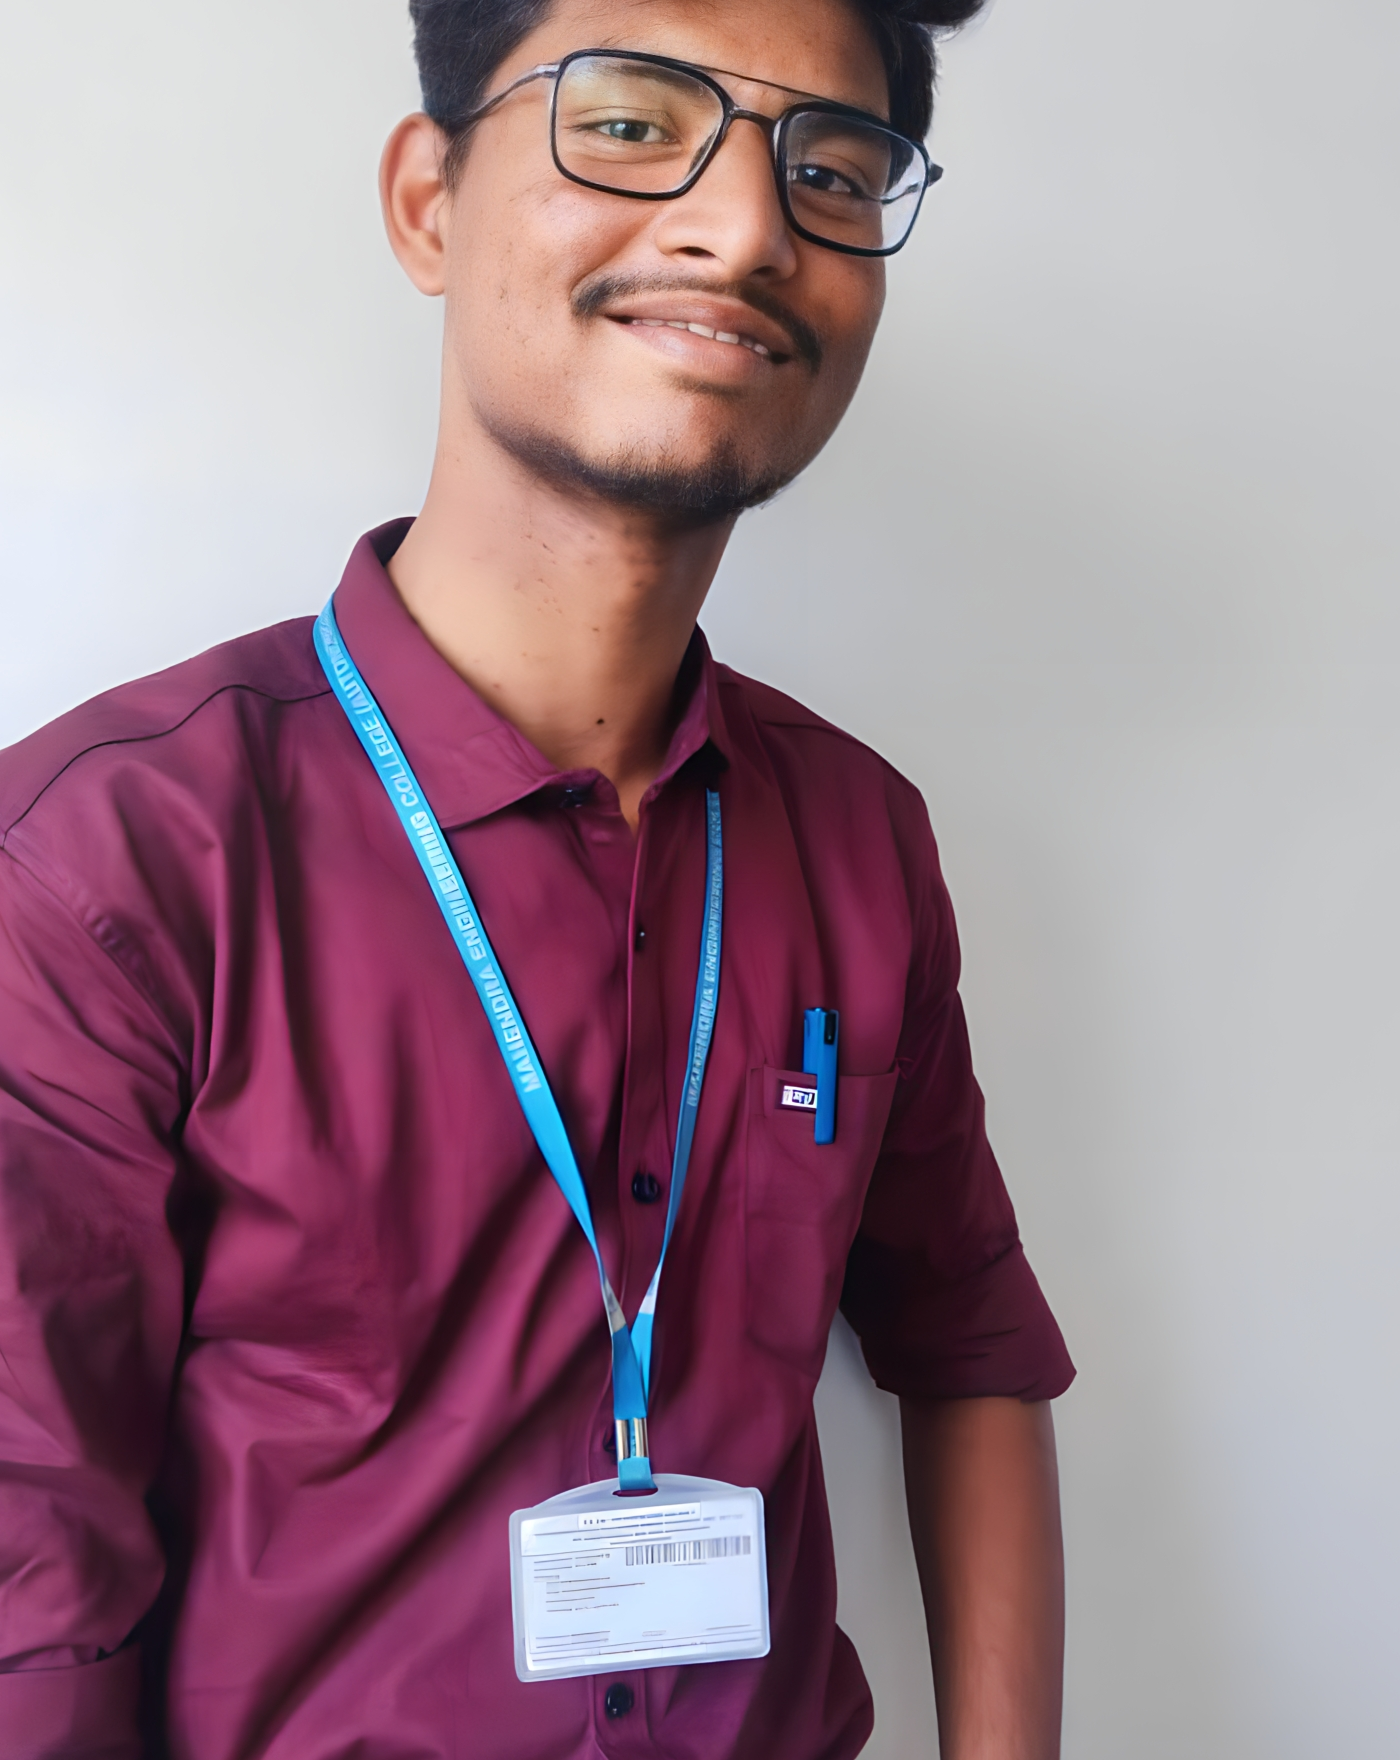
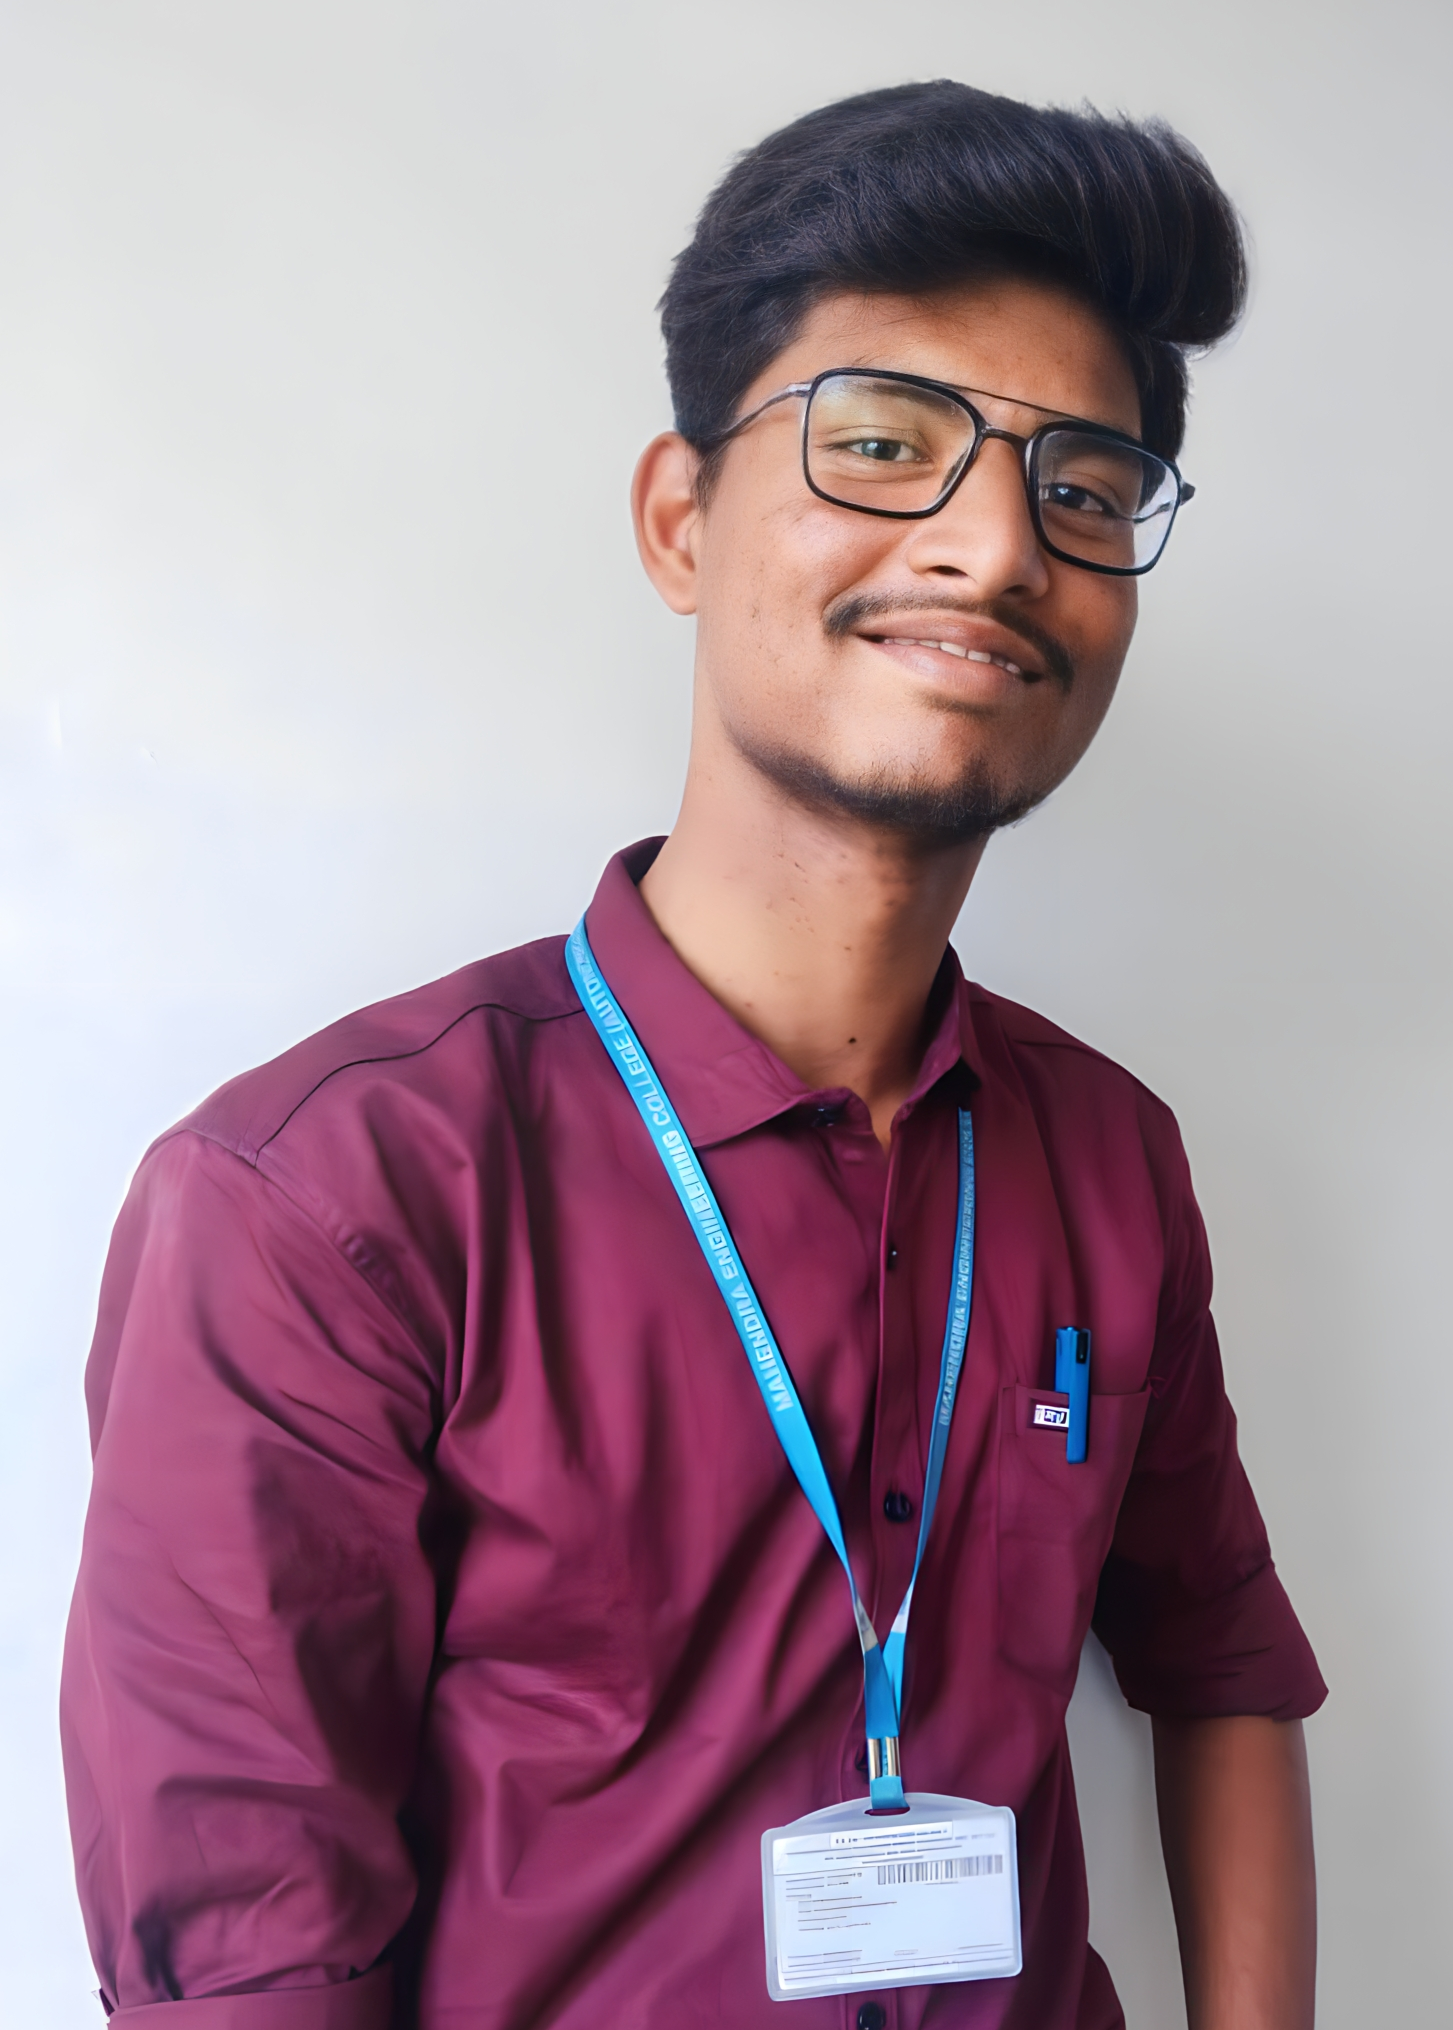
fix(recruiter): adjust crop buffer to preserve full hair and complete face in Recruiter Mode

diff --git a/src/index.css b/src/index.css
@@ -6212,7 +6212,7 @@ body::before {
 
 .recruiter-avatar {
   width: 105px;
-  height: 132px;
+  height: 146px;
   object-fit: cover;
   object-position: center top;
   border-radius: 12px;
